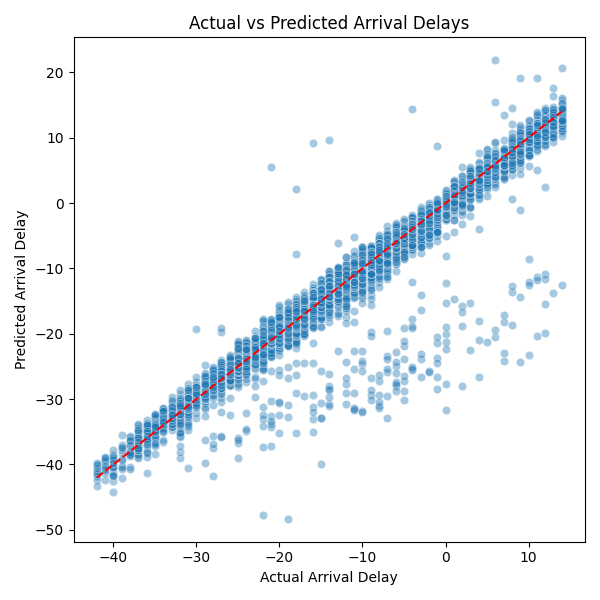
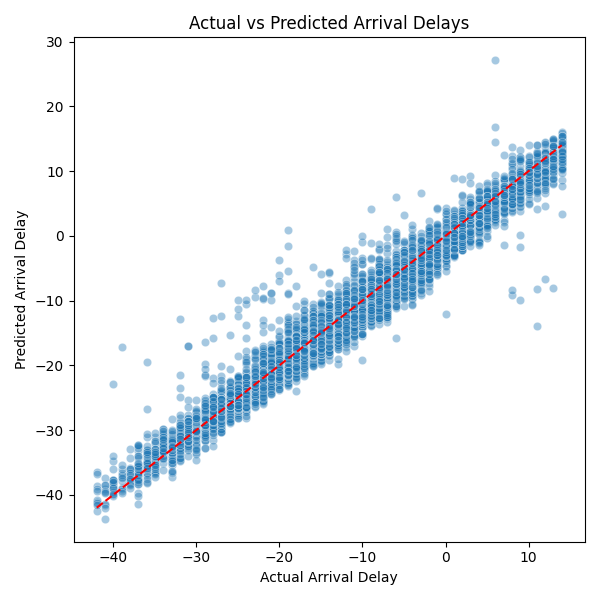
Update all files with latest working NN + evaluation + baselines

diff --git a/src/models/hpo_nn.py b/src/models/hpo_nn.py
@@ -3,6 +3,7 @@ from sklearn.model_selection import KFold
 import numpy as np
 from .neural_net import build_nn
 from tensorflow.keras.callbacks import EarlyStopping
+from .neural_net import train_final_model
 
 def run_nn_kfold_with_hpo(X_train, y_train, X_val, X_test, y_val, y_test, k=5):
     param_grid = [
@@ -40,9 +41,10 @@ def run_nn_kfold_with_hpo(X_train, y_train, X_val, X_test, y_val, y_test, k=5):
             best_mae = val_mae
             best_params = params
 
-    final_model = build_nn(X_train.shape[1], best_params['n_units_1'], best_params['n_units_2'])
-    final_model.fit(X_train, y_train, epochs=best_params['epochs'], batch_size=best_params['batch_size'],
-                    verbose=0, callbacks=[EarlyStopping(monitor='val_mae', patience=3, restore_best_weights=True)])
+    #final_model = build_nn(X_train.shape[1], best_params['n_units_1'], best_params['n_units_2'])
+    #final_model.fit(X_train, y_train, epochs=best_params['epochs'], batch_size=best_params['batch_size'],
+                    #verbose=0, callbacks=[EarlyStopping(monitor='val_mae', patience=3, restore_best_weights=True)])
+    final_model = train_final_model(X_train, y_train, X_val, y_val, X_train.shape[1], best_params)
 
     y_pred_val = final_model.predict(X_val).flatten()
     y_pred_test = final_model.predict(X_test).flatten()

diff --git a/src/models/neural_net.py b/src/models/neural_net.py
@@ -12,10 +12,11 @@ def build_nn(input_dim, n_units_1=64, n_units_2=32):
     model.compile(optimizer='adam', loss='mse', metrics=['mae'])
     return model
 
-def train_final_model(X_train, y_train, input_dim, params):
+def train_final_model(X_train, y_train, X_val, y_val, input_dim, params):
     model = build_nn(input_dim, params['n_units_1'], params['n_units_2'])
     model.fit(
         X_train, y_train,
+        validation_data=(X_val, y_val),
         epochs=params['epochs'],
         batch_size=params['batch_size'],
         verbose=0,
